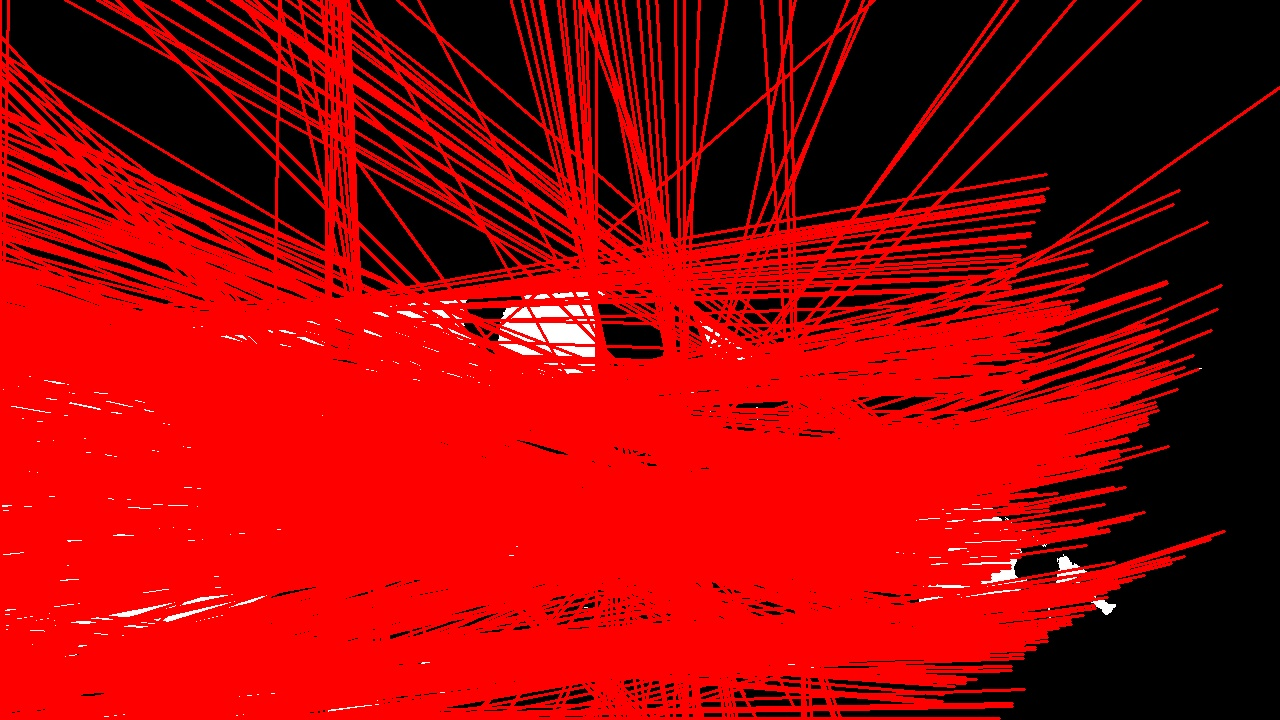
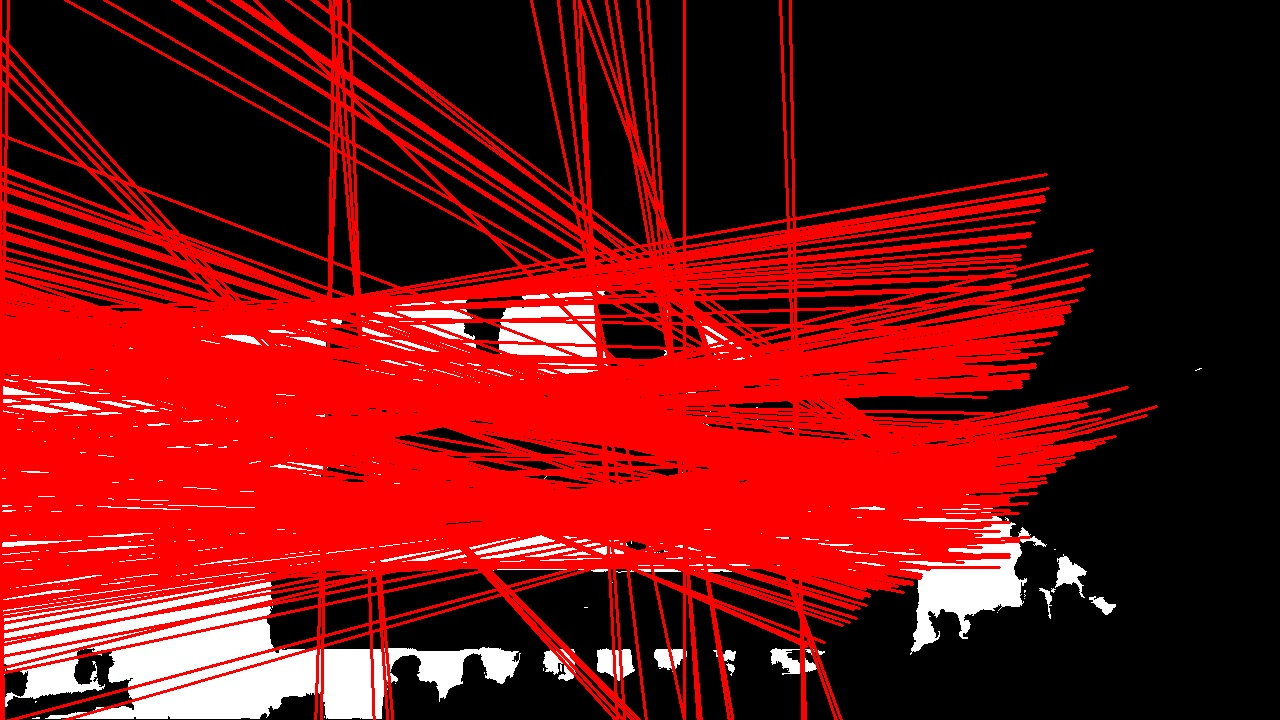
minor changes to hough

diff --git a/src/top_line_detection.py b/src/top_line_detection.py
@@ -4,7 +4,7 @@ import numpy as np
 
 import line_pixel_detection as lpd
 import colors
-from find_intersection_hough_lines import *
+import find_intersection_hough_lines as find_intersect
 
 def find_top_boundary(court_mask):
 	top_line_only = get_top_pixels(court_mask)
@@ -26,8 +26,6 @@ def get_top_pixels(court_mask):
 	return top_pixels
 
 def hough_find_top_line(top_line_only):
-	# Finding the best threshold for Hough
-
 	top_line_copy = np.copy(top_line_only)
 	lines = cv2.HoughLines(top_line_copy,5,np.pi/180 * 3,75)[0]
 	print 'The number of lines with threshold at %d is %d' %(75, len(lines))
@@ -76,15 +74,14 @@ def hough_find_top_line(top_line_only):
 		theta_baseline = theta_0
 		rho_sideline = rho_1
 		rho_baseline = rho_0
-
-	# a = [[rho_sideline,theta_sideline], [rho_baseline, theta_baseline]] if theta_baseline else [rho_sideline,theta_sideline]
-
+		
 	# Find intersection point
 	if theta_baseline:
-		intersection = find_intersecting_point_hough_lines(theta_sideline, rho_sideline, theta_baseline, rho_baseline)
-		print intersection
-		cv2.circle(top_line_copy, intersection, 5, (255,255,255), -1)
-		cv2.imwrite('images/intersection.jpg', top_line_copy)
+		intersection = find_intersect.intersect_point(theta_sideline, rho_sideline, theta_baseline, rho_baseline)
+		# print intersection
+		# cv2.circle(top_line_copy, intersection, 5, (255,255,255), -1)
+		# cv2.imwrite('images/intersection.jpg', top_line_copy)
+		return intersection
 	else:
 		print 'no intersection'
 

diff --git a/src/find_intersection_hough_lines.py b/src/find_intersection_hough_lines.py
@@ -1,6 +1,6 @@
 import numpy as np
 
-def find_intersecting_point_hough_lines(theta_sideline, rho_sideline, theta_baseline, rho_baseline):
+def intersect_point(theta_sideline, rho_sideline, theta_baseline, rho_baseline):
 	a_sideline = np.cos(theta_sideline)
 	b_sideline = np.sin(theta_sideline)
 	slope_sideline = a_sideline / -b_sideline

diff --git a/src/find_best_lines.py b/src/find_best_lines.py
@@ -1,0 +1,7 @@
+import numpy as np
+
+def find_best_lines(lines, target_num_lines):
+	thetas = np.ones(target_num_lines) * float('inf')
+	thetas[0] = lines[0][1]
+
+	for line in lines[1:]:
